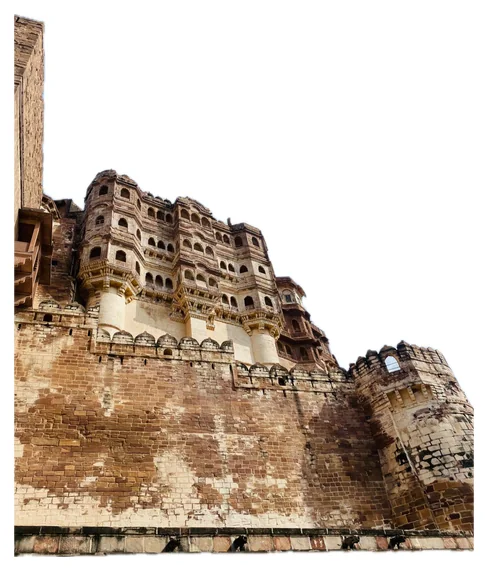
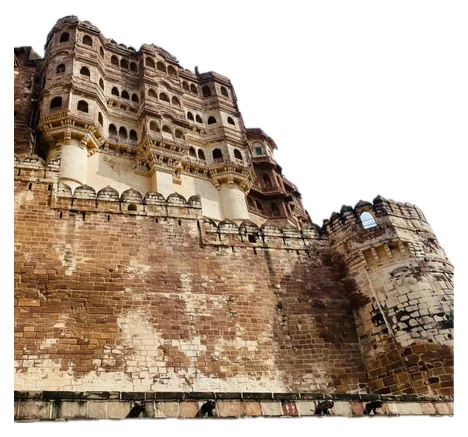
Trim the extra wall strip off the fort in the hero collage

diff --git a/index.html b/index.html
@@ -2254,7 +2254,7 @@ button{font-family:inherit}
 
       <!-- a few things about me, collage-style -->
       <div class="me-collage" role="img" aria-label="Collage: Swaraj at Mehrangarh Fort in Jodhpur, the fort itself, a foggy hilltop hike, motorcycle rides, and two thalis">
-        <figure class="me-collage__item" style="--x:0%;--y:5%;--w:50%;--r:-3deg;--rh:2deg;--z:1;--i:0"><img src="work/me/fort.webp" alt="" width="488" height="571" decoding="async"></figure>
+        <figure class="me-collage__item" style="--x:0%;--y:5%;--w:50%;--r:-3deg;--rh:2deg;--z:1;--i:0"><img src="work/me/fort.webp" alt="" width="468" height="437" decoding="async"></figure>
         <figure class="me-collage__item me-collage__item--frame" style="--x:40%;--y:0%;--w:37%;--r:5deg;--rh:-3deg;--z:2;--i:1"><img src="work/me/fog.webp" alt="" width="360" height="450" decoding="async"></figure>
         <figure class="me-collage__item me-collage__item--frame" style="--x:4%;--y:45%;--w:33%;--r:-6deg;--rh:3deg;--z:3;--i:2"><img src="work/me/ride-pov.webp" alt="" width="340" height="420" decoding="async"></figure>
         <figure class="me-collage__item" style="--x:62%;--y:13%;--w:33%;--r:2deg;--rh:-3deg;--z:6;--i:3"><img src="work/me/me.webp" alt="" width="328" height="609" decoding="async"></figure>
